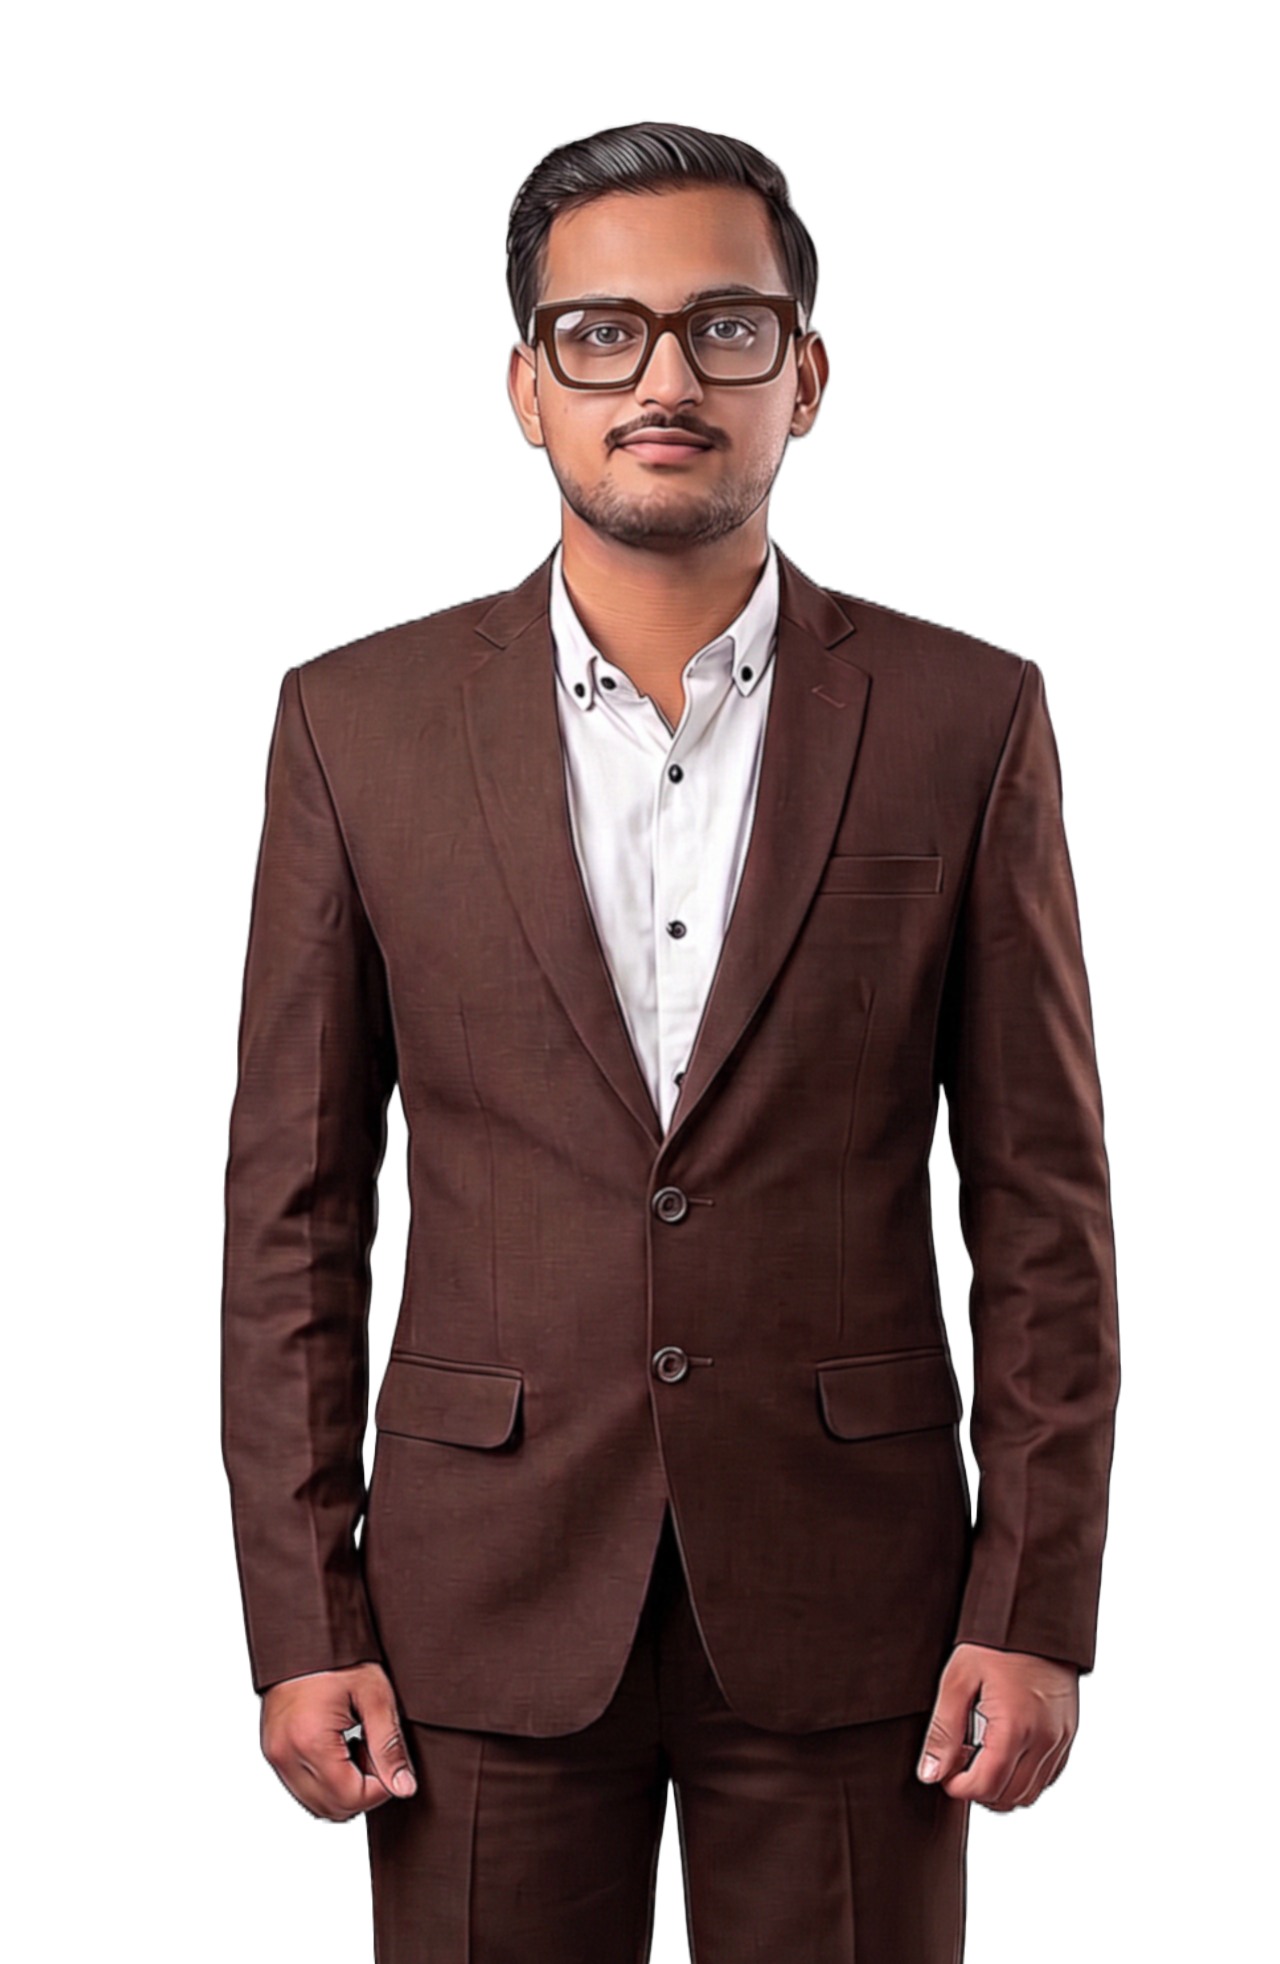
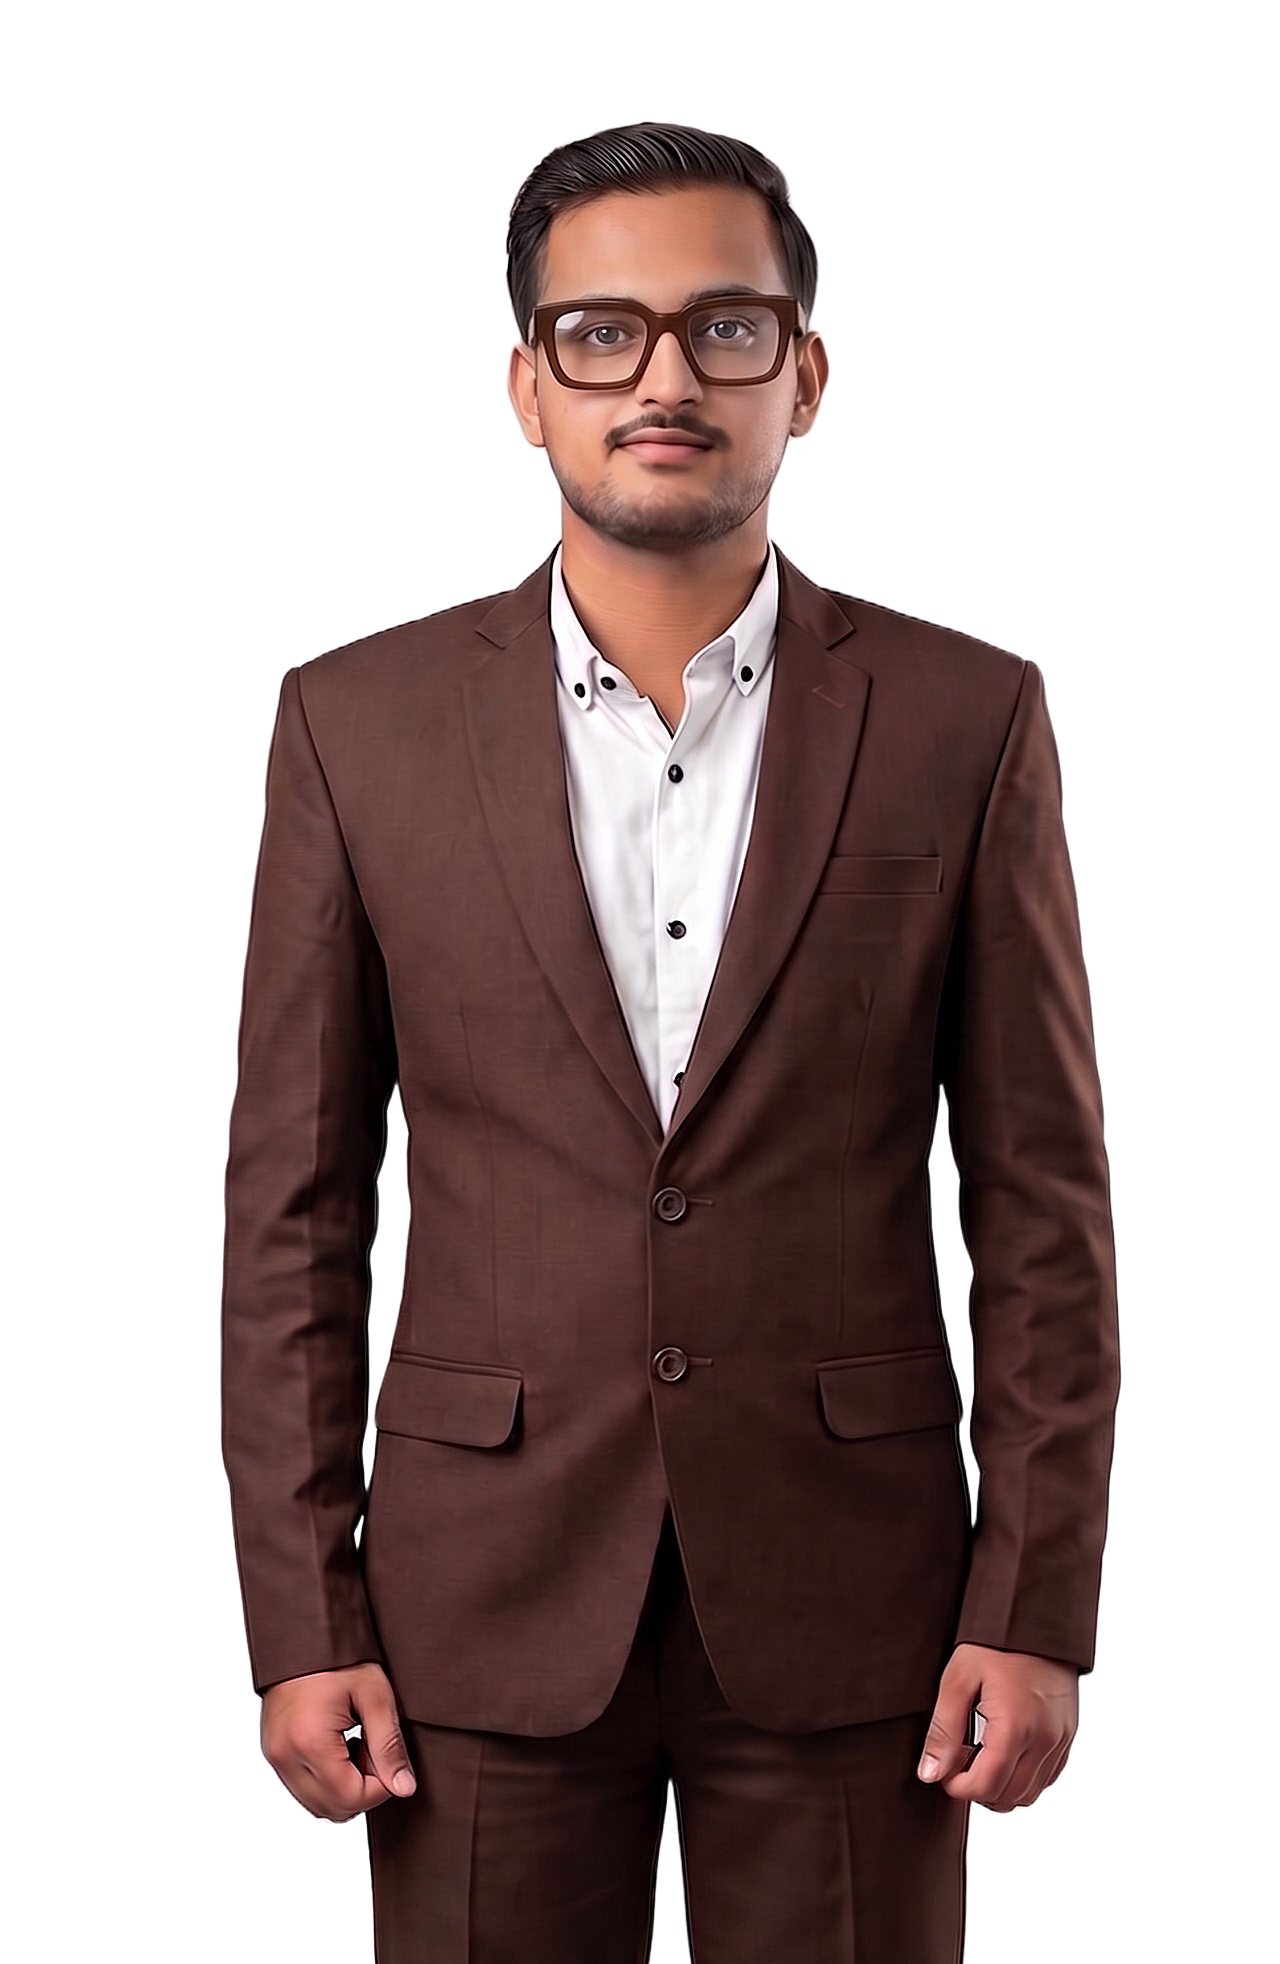
Update Home Section Picture

diff --git a/src/components/Home.jsx b/src/components/Home.jsx
@@ -180,30 +180,31 @@ function Home() {
 
         {/* Right Image */}
         <div
-          className="
-            hidden
-            xl:flex
-            xl:w-1/2
-            2xl:w-[48%]
-            justify-center
-            items-end
-            w-full
-          "
-        >
-          <img
-            src={theme === "light" ? profile_black : profile_black}
-            alt="Ahmed Ali Malik"
-            className="
-              w-full
-              max-w-[650px]
-              2xl:max-w-[750px]
-              3xl:max-w-[850px]
-              max-h-[100vh]
-              object-contain
-              object-bottom
-            "
-          />
-        </div>
+  className="
+    hidden
+    xl:flex
+    xl:w-[55%]
+    2xl:w-[55%]
+    justify-center
+    items-end
+    w-full
+  "
+>
+  <img
+    src={theme === "light" ? profile_black : profile}
+    alt="Ahmed Ali Malik"
+    className="
+      w-full
+      max-w-[750px]
+      2xl:max-w-[900px]
+      3xl:max-w-[1000px]
+      max-h-[100vh]
+      object-contain
+      object-bottom
+    "
+  />
+</div>
+    
       </div>
     </section>
   );
